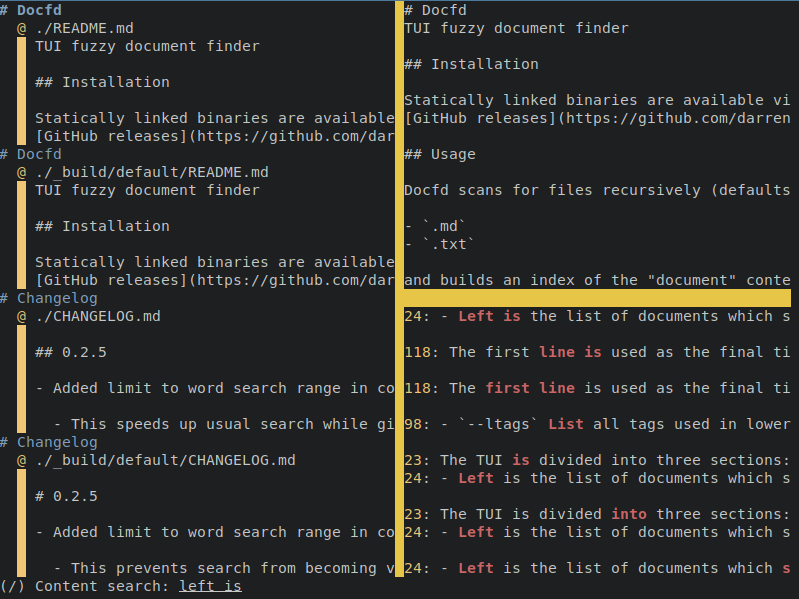
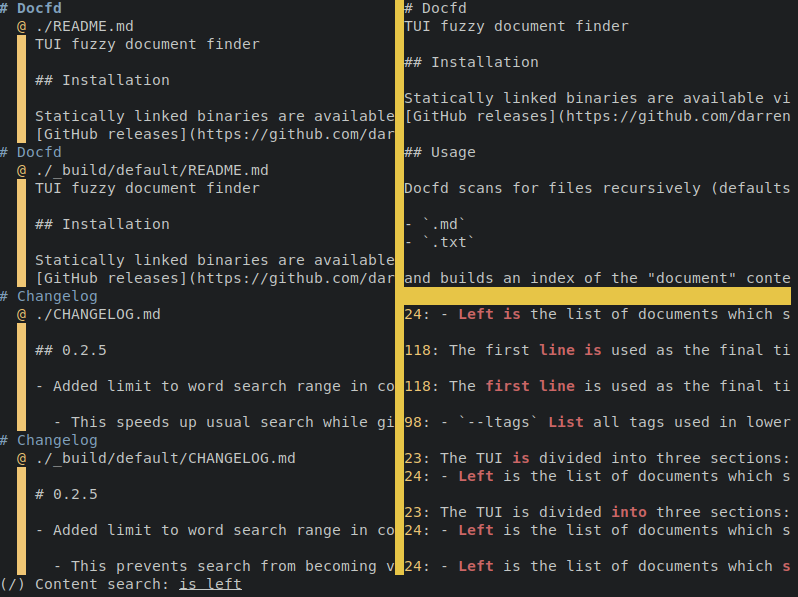
Updated screenshot

diff --git a/README.md b/README.md
@@ -15,7 +15,7 @@ Docfd scans for files recursively (defaults to `.`) with the following extension
 
 and builds an index of the "document" content.
 
-Searching `left is` in repo root:
+Searching `is left` in repo root:
 ![](screenshots/main0.png)
 
 Searching `[github]` in repo root:
